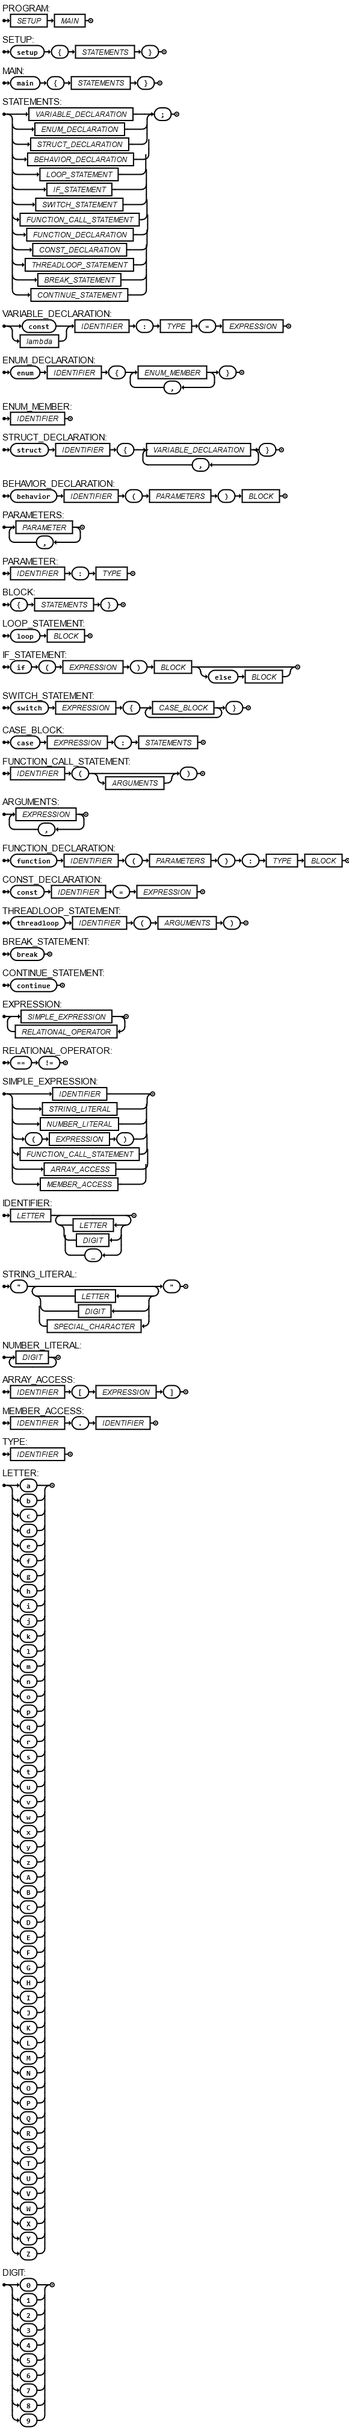
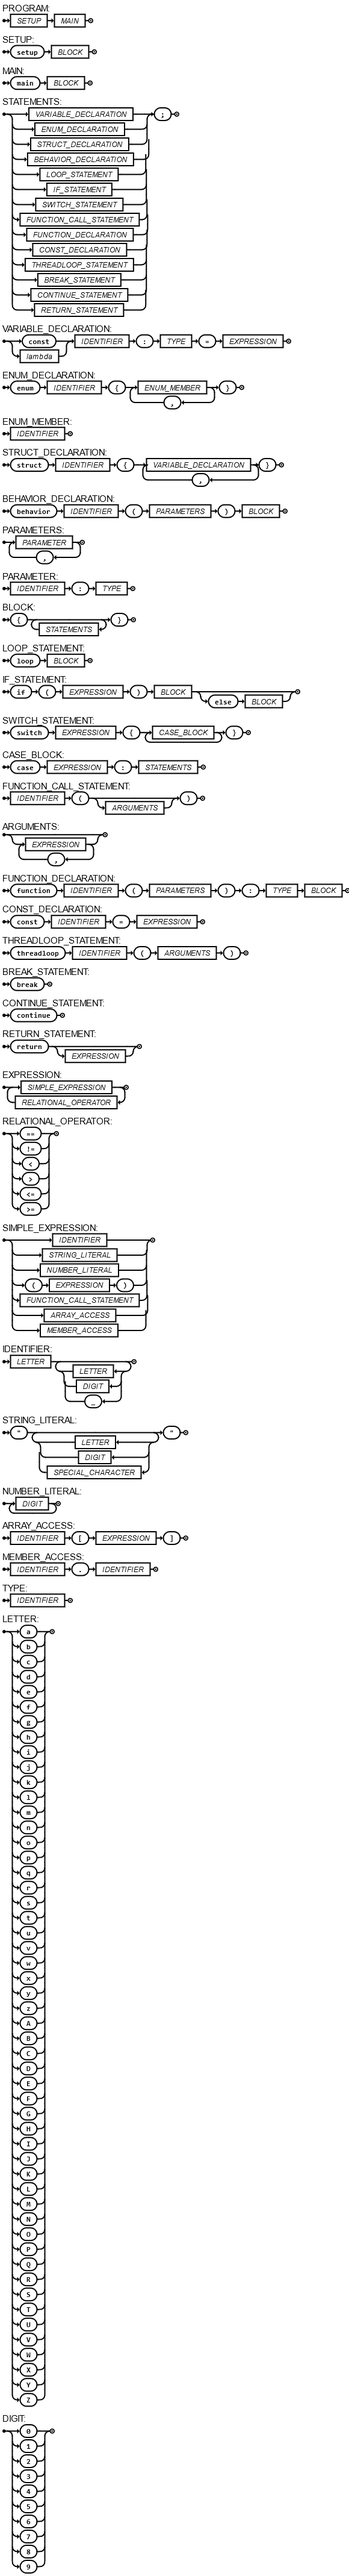
Better relational operators

Changed region(s): [[0.0, 0.0, 1.0, 0.9998]]

diff --git a/README.md b/README.md
@@ -201,7 +201,7 @@ function waitForImageCaptureTrigger(sessionId: String): String {
 <li>CONTINUE_STATEMENT = "continue";
 <li>RETURN_STATEMENT = "return", [EXPRESSION];
 <li>EXPRESSION = SIMPLE_EXPRESSION, { RELATIONAL_OPERATOR, SIMPLE_EXPRESSION };
-<li>RELATIONAL_OPERATOR = "==", "!=";
+<li>RELATIONAL_OPERATOR = "==" | "!=" | "<" | ">" | "<=" | ">=";
 <li>SIMPLE_EXPRESSION = IDENTIFIER | STRING_LITERAL | NUMBER_LITERAL | "(", EXPRESSION, ")" | FUNCTION_CALL_STATEMENT | ARRAY_ACCESS | MEMBER_ACCESS;
 <li>IDENTIFIER = LETTER, { LETTER | DIGIT | "_" };
 <li>STRING_LITERAL = '"', { LETTER | DIGIT | SPECIAL_CHARACTER }, '"';
